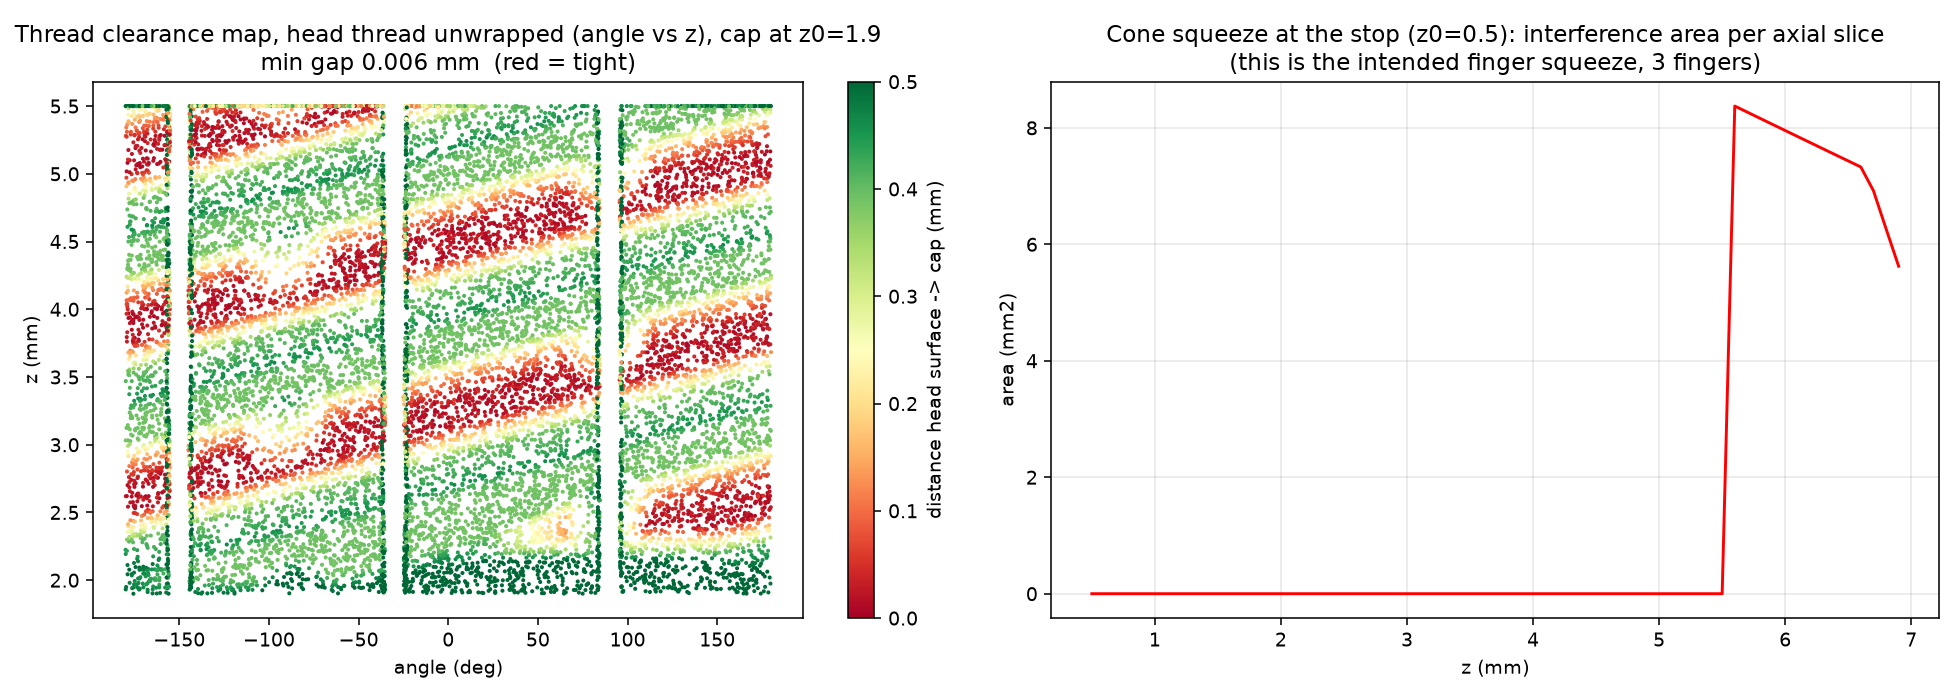
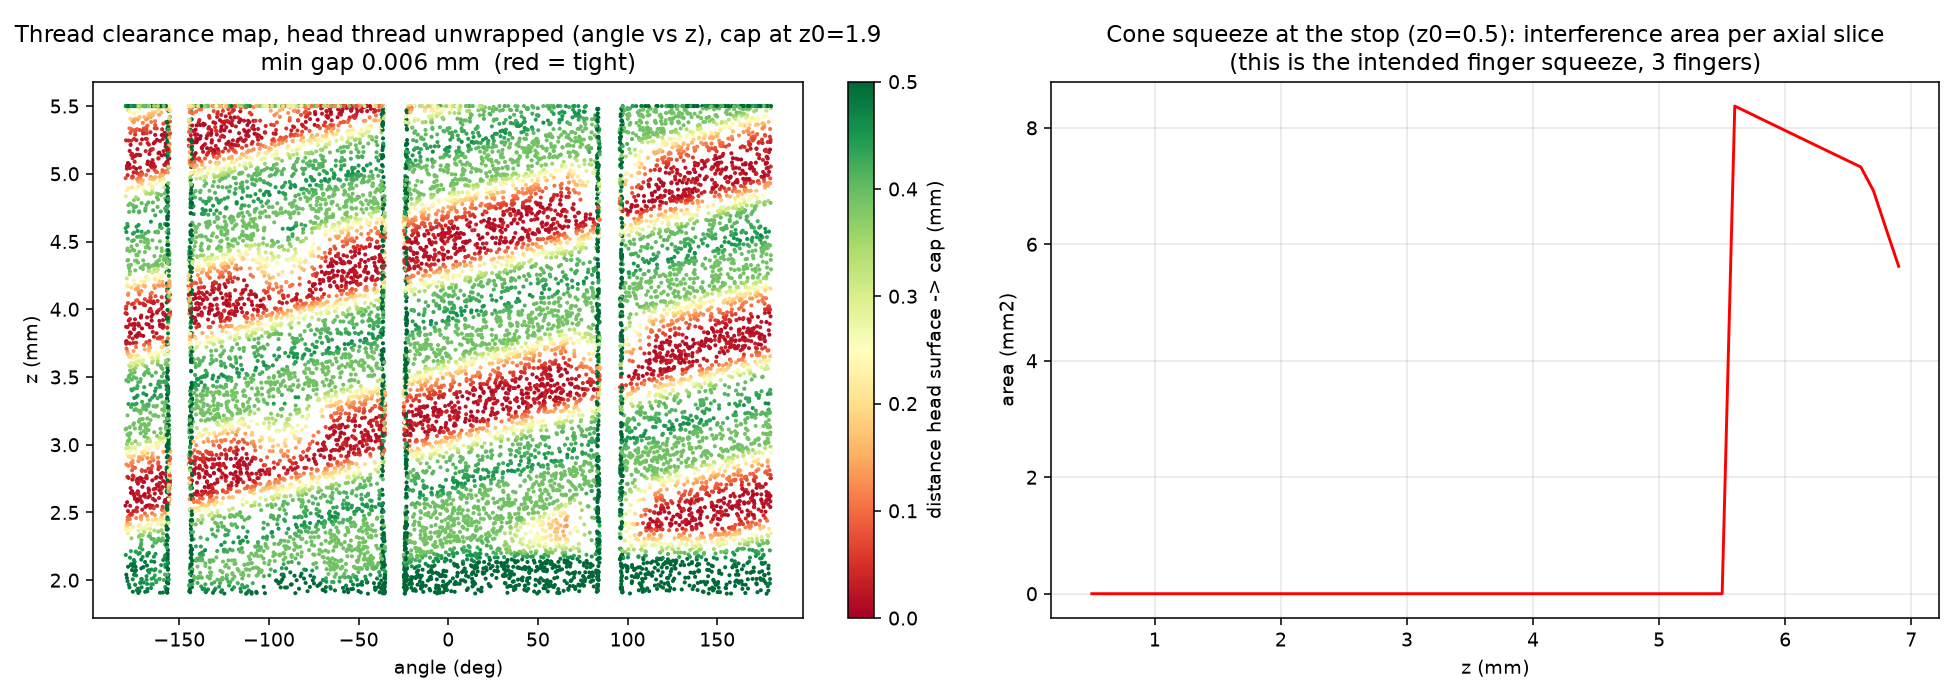
fit-test results page + suggestions; viewer link (magic-stick 8088613)

Changed region(s): [[0.0622, 0.15, 0.4046, 0.87]]

diff --git a/fit-test/index.html b/fit-test/index.html
@@ -1,0 +1,40 @@
+<!doctype html><html lang="en"><head><meta charset="utf-8"><meta name="viewport" content="width=device-width,initial-scale=1">
+<title>Magic Stick: virtual fit test</title><style>
+body{font-family:system-ui,sans-serif;max-width:900px;margin:2em auto;padding:0 1em;color:#222;line-height:1.45}
+table{border-collapse:collapse;width:100%;font-size:14px}td,th{border:1px solid #ccc;padding:4px 8px;text-align:right}
+tr.ok td{background:#eaf7ea}tr.sq td{background:#fff4dd}.badge{display:inline-block;background:#2e7d32;color:#fff;padding:4px 10px;border-radius:6px;font-weight:bold}
+img{max-width:100%;border:1px solid #ddd;margin:8px 0}code{background:#f3f3f3;padding:1px 4px}li{margin:4px 0}</style></head><body>
+<p><a href="../">← Back to the 3D viewer</a></p>
+<h1>Magic Stick: virtual cap-on-handle fit test</h1>
+<p><span class="badge">PASS: the cap screws on and matches the committed results</span></p>
+<ul>
+<li><b>Run:</b> 30 Oct 2026, 09:31 (Stockholm, UTC+1) on a home Linux machine (Python 3.14.7, manifold3d 3.5.4, trimesh 5.2.0)</li>
+<li><b>Source:</b> magic-stick @ 7750359, <code>fit-test/final_sweep.py</code> + <code>fitlib.py</code>, then <code>render_fit.py</code></li>
+<li><b>Duration:</b> sweep 31 s, pictures 4 s</li>
+<li><b>Result vs the committed <code>sweep_final.csv</code>:</b> byte-identical</li>
+</ul>
+<h2>Key numbers</h2>
+<ul>
+<li>0.000 mm³ overlap from the start (7.3 mm above seated) down to <b>1.9 mm</b>: the thread never collides</li>
+<li>First cone contact at <b>~1.6 mm</b> (0.25 mm³): the cap's cone starts closing the collet fingers</li>
+<li>Fully seated (0.5 mm): <b>11.17 mm³</b> overlap, the intended squeeze of the fingers on the stick</li>
+<li>Smallest clearance gap in the heatmap: 0.006 mm</li>
+</ul>
+<p>How it works: the virtual cap is moved down the M9×1.25 helix (one full turn per 1.25 mm). At each step the overlap volume between the cap and head meshes is measured with manifold3d booleans. “Best ±4°” retries small rotation offsets to rule out lucky alignment.</p>
+<h2>Sweep table</h2>
+<table><tr><th>height above seated (mm)</th><th>cap rotation (°)</th><th>overlap on helix (mm³)</th><th>best ±4° (mm³)</th><th>meaning</th></tr>
+<tr class="ok"><td>7.30</td><td>307.9</td><td>0.0000</td><td>0.0000</td><td>clear</td></tr><tr class="ok"><td>7.00</td><td>221.5</td><td>0.0000</td><td>0.0000</td><td>clear</td></tr><tr class="ok"><td>6.70</td><td>135.1</td><td>0.0000</td><td>0.0000</td><td>clear</td></tr><tr class="ok"><td>6.40</td><td>48.7</td><td>0.0000</td><td>0.0000</td><td>clear</td></tr><tr class="ok"><td>6.10</td><td>322.3</td><td>0.0000</td><td>0.0000</td><td>clear</td></tr><tr class="ok"><td>5.80</td><td>235.9</td><td>0.0000</td><td>0.0000</td><td>clear</td></tr><tr class="ok"><td>5.50</td><td>149.5</td><td>0.0000</td><td>0.0000</td><td>clear</td></tr><tr class="ok"><td>5.20</td><td>63.1</td><td>0.0000</td><td>0.0000</td><td>clear</td></tr><tr class="ok"><td>4.90</td><td>336.7</td><td>0.0000</td><td>0.0000</td><td>clear</td></tr><tr class="ok"><td>4.60</td><td>250.3</td><td>0.0000</td><td>0.0000</td><td>clear</td></tr><tr class="ok"><td>4.30</td><td>163.9</td><td>0.0000</td><td>0.0000</td><td>clear</td></tr><tr class="ok"><td>4.00</td><td>77.5</td><td>0.0000</td><td>0.0000</td><td>clear</td></tr><tr class="ok"><td>3.70</td><td>351.1</td><td>0.0000</td><td>0.0000</td><td>clear</td></tr><tr class="ok"><td>3.40</td><td>264.7</td><td>0.0000</td><td>0.0000</td><td>clear</td></tr><tr class="ok"><td>3.10</td><td>178.3</td><td>0.0000</td><td>0.0000</td><td>clear</td></tr><tr class="ok"><td>2.80</td><td>91.9</td><td>0.0000</td><td>0.0000</td><td>clear</td></tr><tr class="ok"><td>2.50</td><td>5.5</td><td>0.0000</td><td>0.0000</td><td>clear</td></tr><tr class="ok"><td>2.20</td><td>279.1</td><td>0.0000</td><td>0.0000</td><td>clear</td></tr><tr class="ok"><td>1.90</td><td>192.7</td><td>0.0000</td><td>0.0000</td><td>clear</td></tr><tr class="sq"><td>1.60</td><td>106.3</td><td>0.2529</td><td>0.2528</td><td>first cone contact</td></tr><tr class="sq"><td>1.50</td><td>77.5</td><td>0.6372</td><td>0.6371</td><td>cone squeezing the fingers</td></tr><tr class="sq"><td>1.40</td><td>48.7</td><td>1.1496</td><td>1.1494</td><td>cone squeezing the fingers</td></tr><tr class="sq"><td>1.30</td><td>19.9</td><td>1.7902</td><td>1.7900</td><td>cone squeezing the fingers</td></tr><tr class="sq"><td>1.20</td><td>351.1</td><td>2.5589</td><td>2.5588</td><td>cone squeezing the fingers</td></tr><tr class="sq"><td>1.10</td><td>322.3</td><td>3.4559</td><td>3.4559</td><td>cone squeezing the fingers</td></tr><tr class="sq"><td>1.00</td><td>293.5</td><td>4.4813</td><td>4.4812</td><td>cone squeezing the fingers</td></tr><tr class="sq"><td>0.90</td><td>264.7</td><td>5.6348</td><td>5.6348</td><td>cone squeezing the fingers</td></tr><tr class="sq"><td>0.80</td><td>235.9</td><td>6.9046</td><td>6.9046</td><td>cone squeezing the fingers</td></tr><tr class="sq"><td>0.70</td><td>207.1</td><td>8.2507</td><td>8.2507</td><td>cone squeezing the fingers</td></tr><tr class="sq"><td>0.60</td><td>178.3</td><td>9.6708</td><td>9.6708</td><td>cone squeezing the fingers</td></tr><tr class="sq"><td>0.50</td><td>149.5</td><td>11.1658</td><td>11.1655</td><td>fully seated (finger squeeze)</td></tr></table>
+<h2>Pictures</h2>
+<h3>Assembled cross-section</h3><a href="cross_section_assembled.png"><img src="cross_section_assembled.png" alt="Assembled cross-section"></a>
+<h3>Clearance heatmap</h3><a href="clearance_heatmap.png"><img src="clearance_heatmap.png" alt="Clearance heatmap"></a>
+<h2>Files</h2><ul>
+<li><a href="final_sweep.log">final_sweep.log</a> (this run) · <a href="render_fit.log">render_fit.log</a></li>
+<li><a href="sweep_final.csv">sweep_final.csv</a> (this run) · <a href="sweep_final_committed.csv">sweep_final_committed.csv</a> (from the repo)</li>
+<li><a href="REPORT.md">REPORT.md</a></li>
+<li>Test coupons to print: <a href="thread_test_head.stl">thread_test_head.stl</a> (print upright) · <a href="thread_test_cap.stl">thread_test_cap.stl</a> (mouth down)</li>
+</ul>
+<h2>Pre-print tests and strength ideas (suggestions)</h2>
+<p>Not built yet. Ideas for what to add next, most useful first.</p>
+<h3>More tests before printing</h3><ol><li><b>Layer-line preview in the browser (Kotlin)</b>: Slice the mesh at each layer height and draw the outlines as stacked lines in three.js with a layer-height slider; shows stair-stepping on the thread, bend and fillet, live, no slicer needed. <i>Effort: ½–1 day.</i></li><li><b>Real slicer G-code preview</b>: Slice with OrcaSlicer or CuraEngine on the command line and draw the toolpaths in three.js; shows true walls, infill and supports plus print time and grams. <i>Effort: 1–2 days.</i></li><li><b>“As printed” fit test</b>: Round the cap and head to layer height and 0.4 mm line width, then rerun the screw-down sweep; the M9×1.25 thread gets only ~8–10 layers per pitch at 0.12–0.16 mm. <i>Effort: ~1 day.</i></li><li><b>Overhang / support heatmap</b>: Colour every surface steeper than 45° red to show where the floating neck needs support and confirm the threads print without it. <i>Effort: ½ day.</i></li><li><b>Layer direction check</b>: Flag anywhere layer lines cross the neck; layer bonding is only ~30–50 % as strong as along the lines. <i>Effort: a few hours.</i></li><li><b>Thin-wall check</b>: Measure wall thickness and flag anything under two lines (0.8 mm): collet fingers, thread tips, cap wall. <i>Effort: ~1 day.</i></li><li><b>Stress simulation (FEA)</b>: Mesh the neck, fillet and fingers and simulate brushing load to confirm the 22.5 MPa formula and the real stress at the fillet. <i>Effort: 1–2 days.</i></li><li><b>Finger flex check</b>: Beam maths: ~0.4 mm tip travel on a 6.5 mm, 1.2 mm thick finger is ~1.9 % strain vs ~4 % for PETG to yield; warn above 2.5 %. <i>Effort: a few hours.</i></li><li><b>Swollen-stick check</b>: Sweep the stick diameter wet (5.0 → 5.4 mm) against the hex bore and grip. <i>Effort: a few hours.</i></li><li><b>Bed contact and print time / filament</b>: Bed contact from the mesh; time and grams from the G-code (now ~7 g PETG for the handle). <i>Effort: a few hours after #2.</i></li></ol>
+<h3>Ways to make it stronger</h3><ol><li><b>Neck Ø4 → Ø5</b>: Strength grows with diameter cubed: stress at 5 N drops from 22.5 to ~11.5 MPa (Ø4.5 gives ~15.8 MPa).</li><li><b>Oval neck, ~4 × 5.5 mm</b>: Long side along the main brushing load: about as strong as Ø5 round while staying 4 mm thin from the other side.</li><li><b>Keep the print orientation, solid neck</b>: Layers already run along the neck, so never print it upright; use 100 % infill or 5+ walls, since walls carry the load in small parts.</li><li><b>Taper the neck to the load</b>: Ideal diameter grows with the cube root of the bending load: keep Ø4 only where the load is smallest and grow toward the bend.</li><li><b>Round the remaining sharp inside corners</b>: The R2.5 fillet is already near its useful limit; the next weak spots are slit ends, hex bore corners and knurl grooves.</li><li><b>Round holes at the collet slit ends (Ø0.8–1.0 mm)</b>: Removes the crack starters at the base of the 1.2 mm fingers and spreads the flex.</li><li><b>Friendlier thread</b>: Blunt lead-in on the first turn, flat tips ≥ 0.4 mm with a 0.1–0.15 mm root radius or a 30° trapezoid profile, maybe 1.5 mm pitch; rerun the fit test after.</li><li><b>Shallow cap knurl (0.3–0.4 mm, rounded grooves)</b>: The cap wall over the M9 thread is only ~1.7 mm, so keep ≥ 1.2 mm under the knurl.</li><li><b>Material</b>: PETG is the best all-rounder (~50 MPa, fine wet); PLA is brittle and softens at 55–60 °C; nylon is toughest but swells with water; PC is strong but hard to print; resin only in a tough grade.</li><li><b>Web on the inside of the bend</b>: Works, but harder to clean and less slim; an I-beam neck isn't practical at Ø4 (flanges thinner than two print lines).</li></ol>
+</body></html>

diff --git a/index.html b/index.html
@@ -49,6 +49,7 @@
       <p class="foot">Live checks computed in Kotlin from the current parameters. <b>+</b> = over-extrusion (parts grow), <b>−</b> = under-extrusion.
         At the default parameters they match the virtual fit test of the exported STLs (trimesh + manifold3d helix sweep): free running to the cone,
         safe from −0.15 to +0.10 mm, +0.15 mm marginal; 22.5 MPa at 5 N (2.0×), 45 MPa at 10 N.
+        <br><b><a href="fit-test/">Full virtual fit test results, pre-print test ideas and strength ideas →</a></b><br>
         Static results: <a href="fit-test/cross_section_assembled.png" target="_blank">assembled cross-section</a> ·
         <a href="fit-test/clearance_heatmap.png" target="_blank">clearance heat map</a> ·
         <a href="fit-test/REPORT.md" target="_blank">REPORT.md</a> ·
